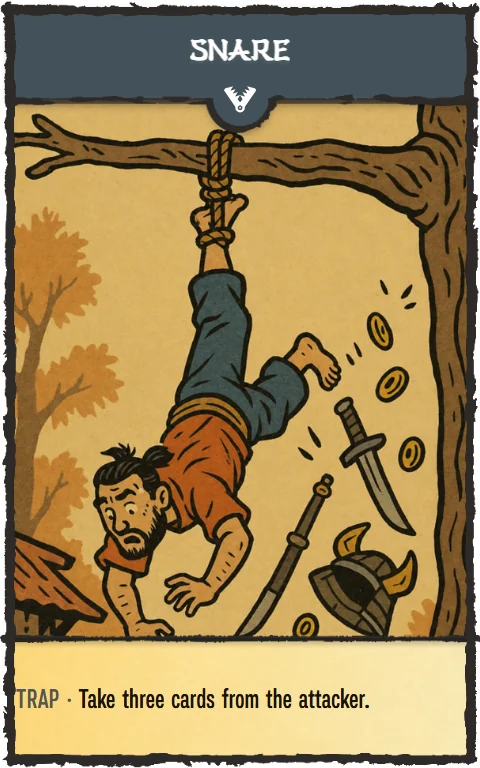
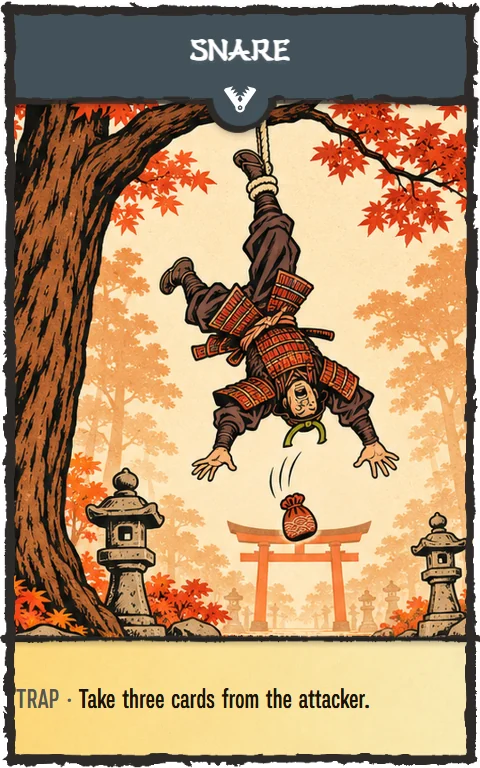
Обновить арт карты «Силок»

diff --git a/js/cards.js b/js/cards.js
@@ -875,7 +875,7 @@ const CARDS = [
     qty: 2,
     group: "trap",
     icons: [],
-    tags: [],
+    tags: ["toPrint"],
     desc: "Вы забираете у атакующего три карты.",
     enDesc: "Take three cards from the attacker.",
     img: "cards/card_41_silok.png"
